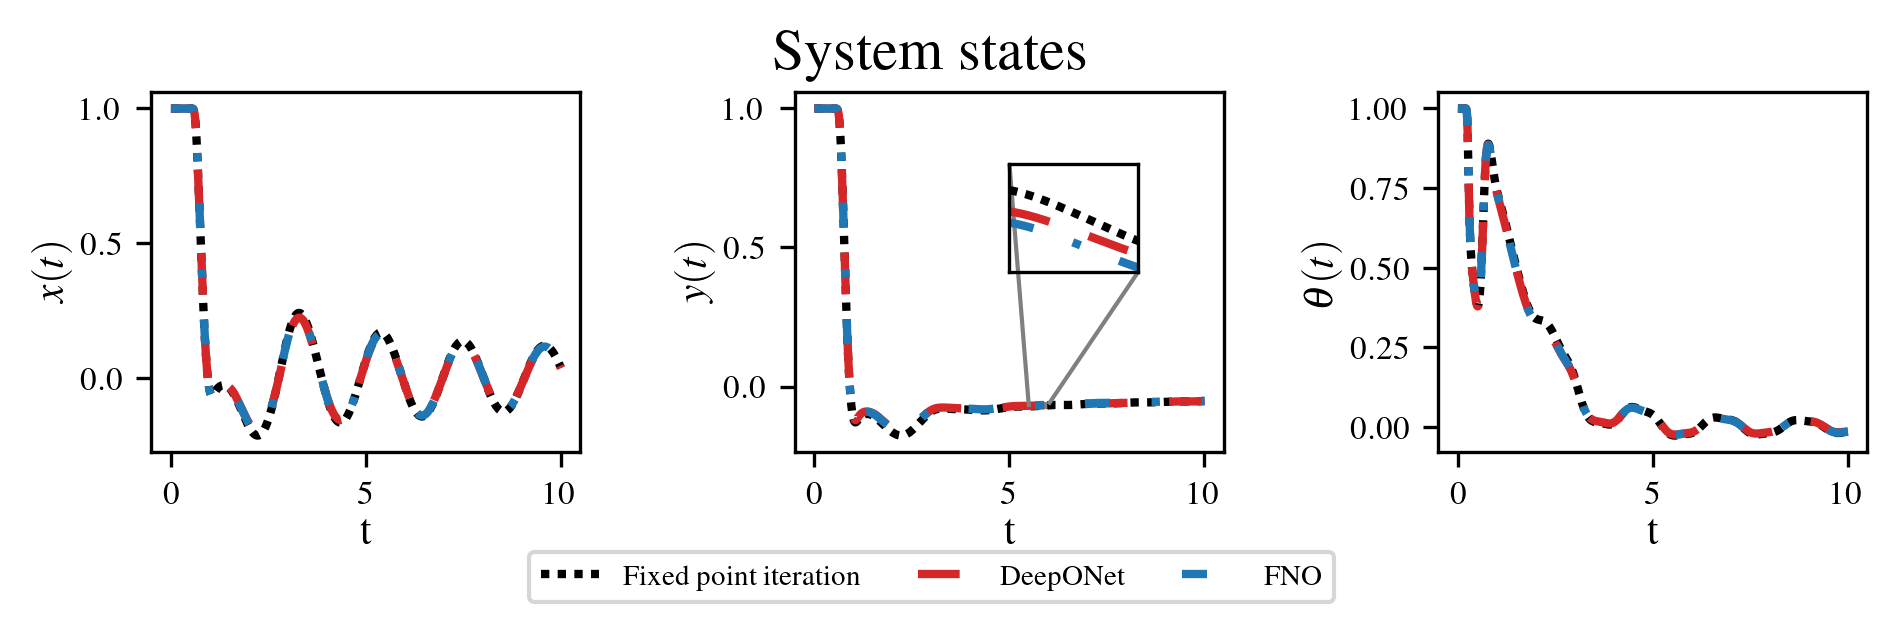
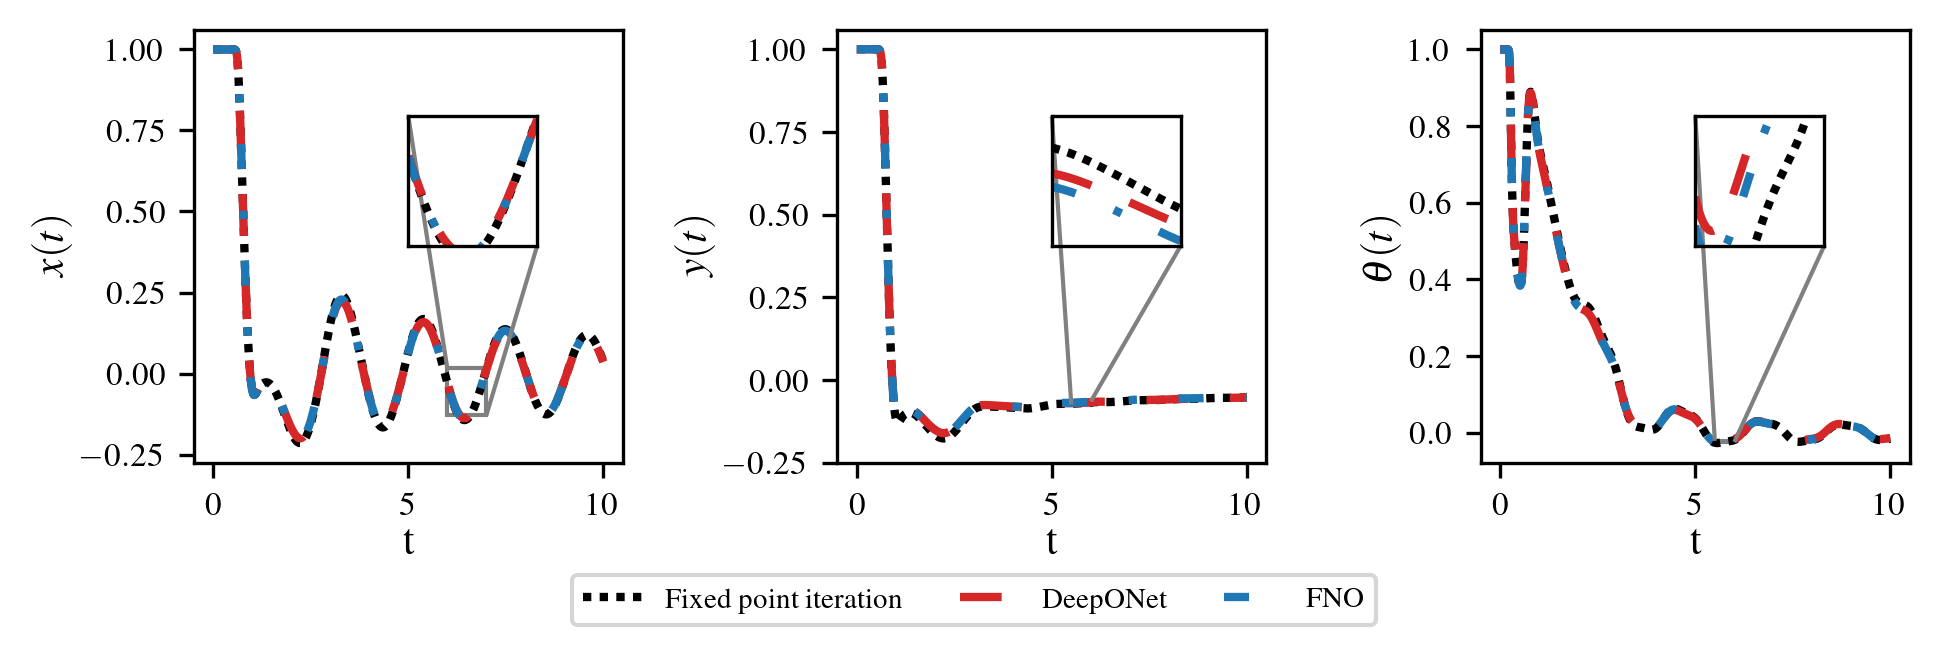
update figures

diff --git a/src/utils.py b/src/utils.py
@@ -342,11 +342,27 @@ def plot_system_states_only(
     ax1.set_xlabel("t", labelpad=1)
     ax1.set_ylabel(r"$x(t)$", labelpad=2)
 
+    if axis: 
+        axins = inset_axes(ax1, width="30%", height="30%", bbox_to_anchor=(-0.2, -0.2, 1,1),
+                       bbox_transform=ax1.transAxes, borderpad=0)
+        axins.plot(t, u_delay[:, 0], **style1)
+        axins.plot(t, u_delay_deeponet[:, 0], **style2)
+        axins.plot(t, u_delay_fno[:, 0], **style3)
+        
+        x1, x2 = 6, 7
+        y1, y2 = get_y_range_zoom(t, x1, x2, u_delay[:, 0])
+        axins.set_xlim(x1, x2)
+        axins.set_ylim(y1, y2)
+        axins.set_xticks([])
+        axins.set_yticks([])
+        mark_inset(ax1, axins, loc1=2, loc2=4, fc="none", ec="0.5")
+
     ax2.plot(t, u_delay[:, 1], **style1)
     ax2.plot(t, u_delay_deeponet[:, 1], **style2)
     ax2.plot(t, u_delay_fno[:, 1], **style3)
     ax2.set_xlabel("t", labelpad=1)
     ax2.set_ylabel(r"$y(t)$", labelpad=2)
+    ax2.set_yticks([-0.25, 0, 0.25, 0.50, 0.75, 1.00])
     
     if axis: 
         axins = inset_axes(ax2, width="30%", height="30%", bbox_to_anchor=(-0.2, -0.2, 1,1),
@@ -369,8 +385,23 @@ def plot_system_states_only(
     ax3.set_xlabel("t", labelpad=1)
     ax3.set_ylabel(r"$\theta(t)$", labelpad=2)
 
-    # Add section title
-    fig.text(0.5, 0.92, "System states", va='center', ha='center', fontsize=14)
+    if axis: 
+        axins = inset_axes(ax3, width="30%", height="30%", bbox_to_anchor=(-0.2, -0.2, 1,1),
+                       bbox_transform=ax3.transAxes, borderpad=0)
+        axins.plot(t, u_delay[:, 2], **style1)
+        axins.plot(t, u_delay_deeponet[:, 2], **style2)
+        axins.plot(t, u_delay_fno[:, 2], **style3)
+        
+        x1, x2 = 5.5, 6
+        y1, y2 = get_y_range_zoom(t, x1, x2, u_delay[:, 2])
+        axins.set_xlim(x1, x2)
+        axins.set_ylim(y1, y2)
+        axins.set_xticks([])
+        axins.set_yticks([])
+        mark_inset(ax3, axins, loc1=2, loc2=4, fc="none", ec="0.5")
+
+    # # Add section title
+    # fig.text(0.5, 0.92, "System states", va='center', ha='center', fontsize=14)
 
     # Add legend with more bottom padding
     l1, = ax3.plot([], [], label="Fixed point iteration", **style1)
@@ -386,8 +417,8 @@ def plot_system_states_only(
         hspace=0.3,
         left=0.1,
         right=0.98,
-        top=0.86,
-        bottom=0.27,
+        top=1.0,
+        bottom=0.29,
         wspace=0.5
     )
     
@@ -417,6 +448,6 @@ if __name__ == '__main__':
     n = len(t)
     plot_system_states_only(
         t,
-        np.zeros((n,3)),np.zeros((n,3)),np.zeros((n,3)),
-        savefig='single_trajectory_test'
+        np.ones((n,3)),np.ones((n,3)),np.ones((n,3)),
+        savefig='single_trajectory_test',
     )
